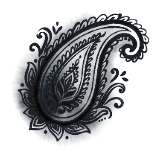
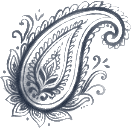
fix(ui): clean paisley smudge, enlarge category animal scales and restore brand teal nav badge

diff --git a/src/pages/HomePage.tsx b/src/pages/HomePage.tsx
@@ -229,8 +229,8 @@ export default function HomePage({
                   }`}
                 >
                   {/* Clean Frameless Symbol - Sits directly on stone background with zero box fill */}
-                  <div className={`aspect-square flex items-center justify-center ${
-                    isFirst ? 'w-[180px] sm:w-[220px] md:w-full' : 'w-full'
+                  <div className={`aspect-square flex items-center justify-center overflow-visible ${
+                    isFirst ? 'w-[220px] sm:w-[280px] md:w-full' : 'w-full'
                   }`}>
                     {category.video ? (
                       <video
@@ -244,7 +244,7 @@ export default function HomePage({
                         preload="auto"
                         poster={category.poster || category.image}
                         style={{ willChange: 'transform' }}
-                        className="h-full w-full object-contain mix-blend-screen transition-transform duration-500 group-hover:scale-105"
+                        className="h-full w-full object-contain mix-blend-screen transition-transform duration-500 scale-120 sm:scale-125 md:scale-120 lg:scale-125 group-hover:scale-[1.32]"
                       >
                         <source src={category.video} type="video/mp4" />
                       </video>
@@ -253,7 +253,7 @@ export default function HomePage({
                         src={category.image}
                         alt={category.name}
                         loading="lazy"
-                        className="h-full w-full object-contain mix-blend-screen transition-transform duration-500 group-hover:scale-105"
+                        className="h-full w-full object-contain mix-blend-screen transition-transform duration-500 scale-120 sm:scale-125 md:scale-120 lg:scale-125 group-hover:scale-[1.32]"
                       />
                     )}
                   </div>

diff --git a/src/components/Header.tsx b/src/components/Header.tsx
@@ -188,8 +188,8 @@ export default function Header({ currentPage, onNavigate }: HeaderProps) {
                 }}
                 className={`px-3 py-1.5 rounded-lg text-xs font-semibold uppercase tracking-wider transition-colors duration-200 cursor-pointer ${
                   currentPage === page
-                    ? 'text-[#003365] bg-[#003365]/10 font-bold'
-                    : 'text-slate-700 hover:text-[#003365] hover:bg-black/5'
+                    ? 'text-brand-700 bg-brand-50 font-bold shadow-2xs'
+                    : 'text-slate-700 hover:text-brand-700 hover:bg-slate-100/70'
                 }`}
               >
                 {label}
@@ -307,7 +307,7 @@ export default function Header({ currentPage, onNavigate }: HeaderProps) {
             <button
               type="button"
               onClick={() => onNavigate('cart')}
-              className="hidden sm:flex relative h-9 items-center gap-1.5 rounded-lg bg-slate-100 px-3 text-[#003365] transition-colors hover:bg-slate-200/80 border border-slate-200 shrink-0 cursor-pointer"
+              className="hidden sm:flex relative h-9 items-center gap-1.5 rounded-lg bg-slate-100 px-3 text-brand-700 transition-colors hover:bg-slate-200/80 border border-slate-200 shrink-0 cursor-pointer"
               title="Корзина"
             >
               <ShoppingCart className="h-[18px] w-[18px]" />
